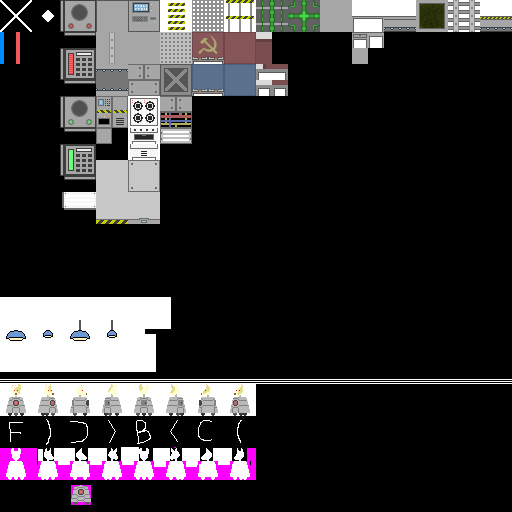
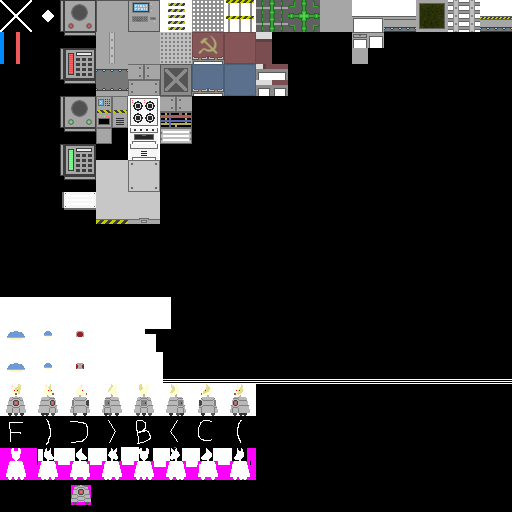
Adding cool red emergency lights, and flickery lights

Changed region(s): [[0.0, 0.6875, 0.3438, 0.75], [0.125, 0.625, 0.25, 0.6875]]

diff --git a/src/BORK_of_DOOM/state_edit.c b/src/BORK_of_DOOM/state_edit.c
@@ -62,7 +62,7 @@ static void bork_editor_place_tile(struct bork_editor_data* d,
                                    int x, int y, int z)
 {
     struct bork_editor_tile* dst = &d->map.tiles[x][y][z];
-    if(tile->type >= BORK_TILE_EDITOR_LIGHT1 && tile->type <= BORK_TILE_EDITOR_LIGHT2) {
+    if(tile->type >= BORK_TILE_EDITOR_LIGHT1 && tile->type <= BORK_TILE_EDITOR_EMER_LIGHT) {
         dst->alt_type = tile->type;
         dst->alt_dir = tile->dir;
         return;
@@ -881,37 +881,23 @@ void bork_editor_complete_map(struct bork_map* map, struct bork_editor_map* ed_m
                     bork_editor_complete_teleport(map, ed_map, i, j, k);
                 }
                 if(ed_tile->alt_type == BORK_TILE_EDITOR_LIGHT1) {
-                    struct pg_light new_light;
-                    pg_light_spotlight(&new_light,
+                    struct bork_map_light_fixture new_lfix = {
+                        .pos = { i * 2 + 1, j * 2 + 1, k * 2 + 1.75 },
+                        .type = 0, .flags = (1 << 1), };
+                    pg_light_spotlight(&new_lfix.light,
                         (vec3){ i * 2 + 1, j * 2 + 1, k * 2 + 1.75 }, 5.5,
                         (vec3){ 1.5, 1.5, 1.3 }, (vec3){ 0, 0, -1 }, 1.7);
-                    int push = 0;
-                    if(ed_tile->alt_dir & (1 << 7)) {
-                        push = 1;
-                        new_light.pos[2] += 1.3;
-                    }
-                    ARR_PUSH(map->spotlights, new_light);
-                    struct bork_map_light_fixture new_lfix = {
-                        .pos = { new_light.pos[0], new_light.pos[1], new_light.pos[2] - 0.2 },
-                        .type = 0 + (push ? 2 : 0),
-                    };
+                    if(ed_tile->alt_dir & (1 << 7)) new_lfix.flags |= 1;
                     ARR_PUSH(map->light_fixtures, new_lfix);
                     tile->type = BORK_TILE_ATMO;
                 } else if(ed_tile->alt_type == BORK_TILE_EDITOR_LIGHT2) {
-                    struct pg_light new_light;
-                    pg_light_spotlight(&new_light,
+                    struct bork_map_light_fixture new_lfix = {
+                        .pos = { i * 2 + 1, j * 2 + 1, k * 2 + 1.75 },
+                        .type = 0, .flags = (1 << 1), };
+                    pg_light_spotlight(&new_lfix.light,
                         (vec3){ i * 2 + 1, j * 2 + 1, k * 2 + 1.75 }, 9,
                         (vec3){ 1.5, 1.5, 1.3 }, (vec3){ 0, 0, -1 }, 1.7);
-                    int push = 0;
-                    if(ed_tile->alt_dir & (1 << 7)) {
-                        push = 1;
-                        new_light.pos[2] += 1.3;
-                    }
-                    ARR_PUSH(map->spotlights, new_light);
-                    struct bork_map_light_fixture new_lfix = {
-                        .pos = { new_light.pos[0], new_light.pos[1], new_light.pos[2] - 0.2 },
-                        .type = 0 + (push ? 2 : 0),
-                    };
+                    if(ed_tile->alt_dir & (1 << 7)) new_lfix.flags |= 1;
                     ARR_PUSH(map->light_fixtures, new_lfix);
                     tile->type = BORK_TILE_ATMO;
                 } else if(ed_tile->alt_type == BORK_TILE_EDITOR_LIGHT_WALLMOUNT) {
@@ -933,20 +919,14 @@ void bork_editor_complete_map(struct bork_map* map, struct bork_editor_map* ed_m
                         dir_angle[0] = -1;
                         pos[0] += 0.8;
                     }
-                    int push = 0;
-                    if(ed_tile->alt_dir & (1 << 7)) {
-                        push = 1;
-                        pos[2] += 1.3;
-                    }
                     vec3_normalize(dir_angle, dir_angle);
-                    struct pg_light new_light;
-                    pg_light_spotlight(&new_light,
-                        pos, 7, (vec3){ 1.5, 1.5, 1.3 }, dir_angle, 1.15);
-                    ARR_PUSH(map->spotlights, new_light);
                     struct bork_map_light_fixture new_lfix = {
-                        .pos = { new_light.pos[0], new_light.pos[1], new_light.pos[2] - 0.1 },
-                        .type = 1 + (push ? 2 : 0),
+                        .pos = { pos[0], pos[1], pos[2] - 0.1 },
+                        .type = 1, .flags = (1 << 1),
                     };
+                    if(ed_tile->alt_dir & (1 << 7)) new_lfix.flags |= 1;
+                    pg_light_spotlight(&new_lfix.light,
+                        pos, 7, (vec3){ 1.5, 1.5, 1.3 }, dir_angle, 1.15);
                     ARR_PUSH(map->light_fixtures, new_lfix);
                     tile->type = BORK_TILE_ATMO;
                 } else if(ed_tile->alt_type == BORK_TILE_EDITOR_LIGHT_SMALLMOUNT) {
@@ -968,20 +948,43 @@ void bork_editor_complete_map(struct bork_map* map, struct bork_editor_map* ed_m
                         dir_angle[0] = -0.3;
                         pos[0] += 0.8;
                     }
-                    int push = 0;
-                    if(ed_tile->alt_dir & (1 << 7)) {
-                        push = 1;
-                        pos[2] += 1.3;
+                    vec3_normalize(dir_angle, dir_angle);
+                    struct bork_map_light_fixture new_lfix = {
+                        .pos = { pos[0], pos[1], pos[2] - 0.1 },
+                        .type = 1, .flags = (1 << 1),
+                    };
+                    if(ed_tile->alt_dir & (1 << 7)) new_lfix.flags |= 1;
+                    pg_light_spotlight(&new_lfix.light,
+                        pos, 3.5, (vec3){ 1.5, 1.5, 1.3 }, dir_angle, 0.9);
+                    ARR_PUSH(map->light_fixtures, new_lfix);
+                    tile->type = BORK_TILE_ATMO;
+                } else if(ed_tile->alt_type == BORK_TILE_EDITOR_EMER_LIGHT) {
+                    vec3 dir_angle = { 0, 0, -1 };
+                    vec3 pos = { i * 2 + 1, j * 2 + 1, k * 2 + 1.75 };
+                    if(ed_tile->alt_dir & (1 << PG_FRONT)) {
+                        dir_angle[1] = 0.3;
+                        pos[1] -= 0.8;
+                    }
+                    if(ed_tile->alt_dir & (1 << PG_BACK)) {
+                        dir_angle[1] = -0.3;
+                        pos[1] += 0.8;
+                    }
+                    if(ed_tile->alt_dir & (1 << PG_LEFT)) {
+                        dir_angle[0] = 0.3;
+                        pos[0] -= 0.8;
+                    }
+                    if(ed_tile->alt_dir & (1 << PG_RIGHT)) {
+                        dir_angle[0] = -0.3;
+                        pos[0] += 0.8;
                     }
                     vec3_normalize(dir_angle, dir_angle);
-                    struct pg_light new_light;
-                    pg_light_spotlight(&new_light,
-                        pos, 3.5, (vec3){ 1.5, 1.5, 1.3 }, dir_angle, 0.9);
-                    ARR_PUSH(map->spotlights, new_light);
                     struct bork_map_light_fixture new_lfix = {
-                        .pos = { new_light.pos[0], new_light.pos[1], new_light.pos[2] - 0.1 },
-                        .type = 1 + (push ? 2 : 0),
+                        .pos = { pos[0], pos[1], pos[2] },
+                        .type = 2, .flags = (1 << 1),
                     };
+                    if(ed_tile->alt_dir & (1 << 7)) new_lfix.flags |= 1;
+                    pg_light_spotlight(&new_lfix.light,
+                        pos, 3.5, (vec3){ 1.5, 1.5, 1.3 }, dir_angle, 0.9);
                     ARR_PUSH(map->light_fixtures, new_lfix);
                     tile->type = BORK_TILE_ATMO;
                 }

diff --git a/src/BORK_of_DOOM/map_area.c b/src/BORK_of_DOOM/map_area.c
@@ -292,6 +292,8 @@ struct bork_tile_detail BORK_TILE_DETAILS[] = {
         .tile_flags = BORK_TILE_HAS_ORIENTATION },
     [BORK_TILE_EDITOR_LIGHT_SMALLMOUNT] = { .name = "SMALL LIGHT",
         .tile_flags = BORK_TILE_HAS_ORIENTATION },
+    [BORK_TILE_EDITOR_EMER_LIGHT] = { .name = "EMER. LIGHT",
+        .tile_flags = BORK_TILE_HAS_ORIENTATION },
     [BORK_TILE_EDITOR_TEXT] = { .name = "TEXT",
         .tile_flags = BORK_TILE_HAS_ORIENTATION },
     [BORK_TILE_EDITOR_TELEPORT] = { .name = "TELEPORT",
@@ -672,11 +674,44 @@ void bork_map_draw(struct bork_map* map, struct bork_play_data* d)
     int current_type = 0;
     struct bork_map_light_fixture* lfix;
     ARR_FOREACH_PTR(map->light_fixtures, lfix, i) {
-        mat4_translate(model_transform, lfix->pos[0], lfix->pos[1], lfix->pos[2]);
-        if(lfix->type != current_type) {
-            pg_shader_sprite_tex_frame(shader, lfix->type + 160);
-            current_type = lfix->type;
+        if(vec3_dist2(lfix->pos, d->plr.pos) > (32 * 32)) continue;
+        int shining = 1;
+        int frame = lfix->type + 160;
+        if(lfix->flags & 1) {
+            float flicker = perlin1((float)d->play_ticks / 40.0f) + 0.25;
+            if(flicker < 0) {
+                shining = 0;
+                if(flicker > -0.05) {
+                    float angle = RANDF * M_PI * 2;
+                    vec3 off = { cos(angle), sin(angle), RANDF * 0.1 - 0.05 };
+                    struct bork_particle new_part = {
+                        .flags = BORK_PARTICLE_SPRITE | BORK_PARTICLE_GRAVITY,
+                        .pos = { lfix->pos[0], lfix->pos[1], lfix->pos[2] },
+                        .vel = { off[0] * 0.075, off[1] * 0.075, off[2] },
+                        .ticks_left = 50,
+                        .frame_ticks = 0,
+                        .start_frame = 0, .end_frame = 0 };
+                    ARR_PUSH(d->particles, new_part);
+                }
+            }
         }
+        if(lfix->flags & (1 << 2)) shining = 0;
+        if(shining && (lfix->flags & (1 << 1))) {
+            if(lfix->type == 2) {
+                if(d->play_ticks % 60 < 30) frame += 16;
+                float angle = FMOD((float)d->play_ticks / 20.0f, M_PI * 2);
+                vec3 dir = { sin(angle), cos(angle), -0.6 };
+                vec3_normalize(dir, dir);
+                struct pg_light light;
+                pg_light_spotlight(&light, lfix->pos, 7.5, (vec3){ 1.5, 0.1, 0.1 }, dir, 0.85);
+                ARR_PUSH(d->spotlights, light);
+            } else ARR_PUSH(d->spotlights, lfix->light);
+        } else if(shining) {
+            ARR_PUSH(d->lights_buf, lfix->light);
+        }
+        if(!shining) frame += 16;
+        mat4_translate(model_transform, lfix->pos[0], lfix->pos[1], lfix->pos[2]);
+        pg_shader_sprite_tex_frame(shader, frame);
         pg_model_draw(&core->enemy_model, model_transform);
     }
 }

diff --git a/src/BORK_of_DOOM/map_area.h b/src/BORK_of_DOOM/map_area.h
@@ -69,6 +69,7 @@ enum bork_tile_type {
     BORK_TILE_EDITOR_LIGHT_WALLMOUNT,
     BORK_TILE_EDITOR_LIGHT_SMALLMOUNT,
     BORK_TILE_EDITOR_LIGHT2,
+    BORK_TILE_EDITOR_EMER_LIGHT,
     BORK_TILE_COUNT,
 };
 
@@ -125,7 +126,7 @@ struct bork_map_object {
 struct bork_map_light_fixture {
     vec3 pos;
     int type;
-    int flicker;
+    uint8_t flags;
     struct pg_light light;
 };
 
